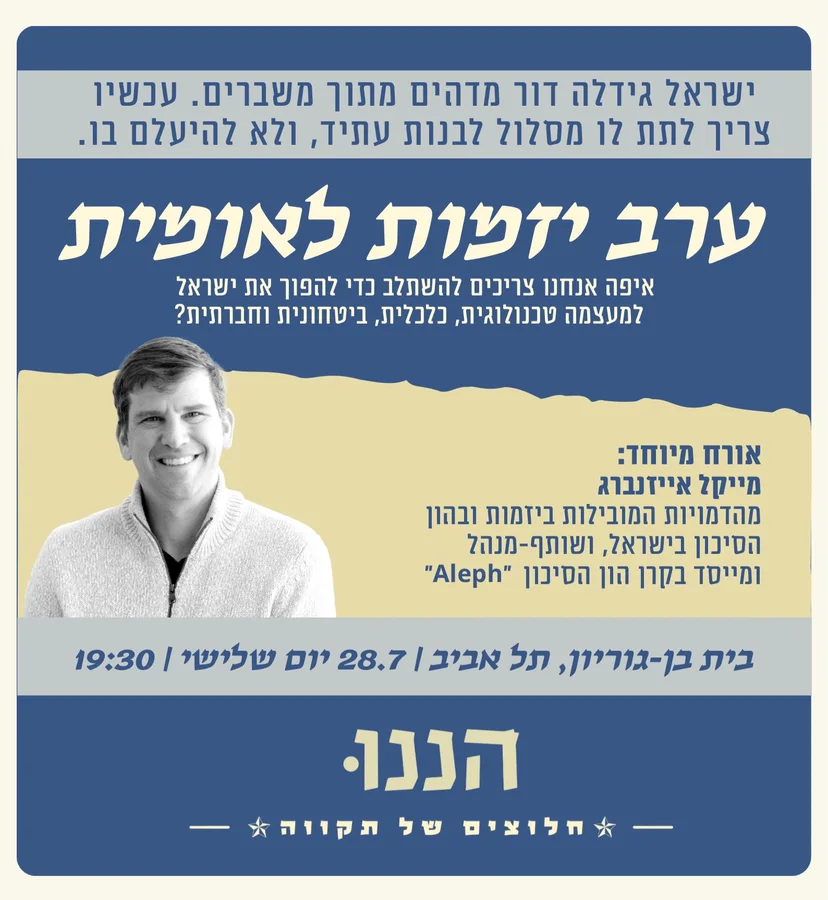
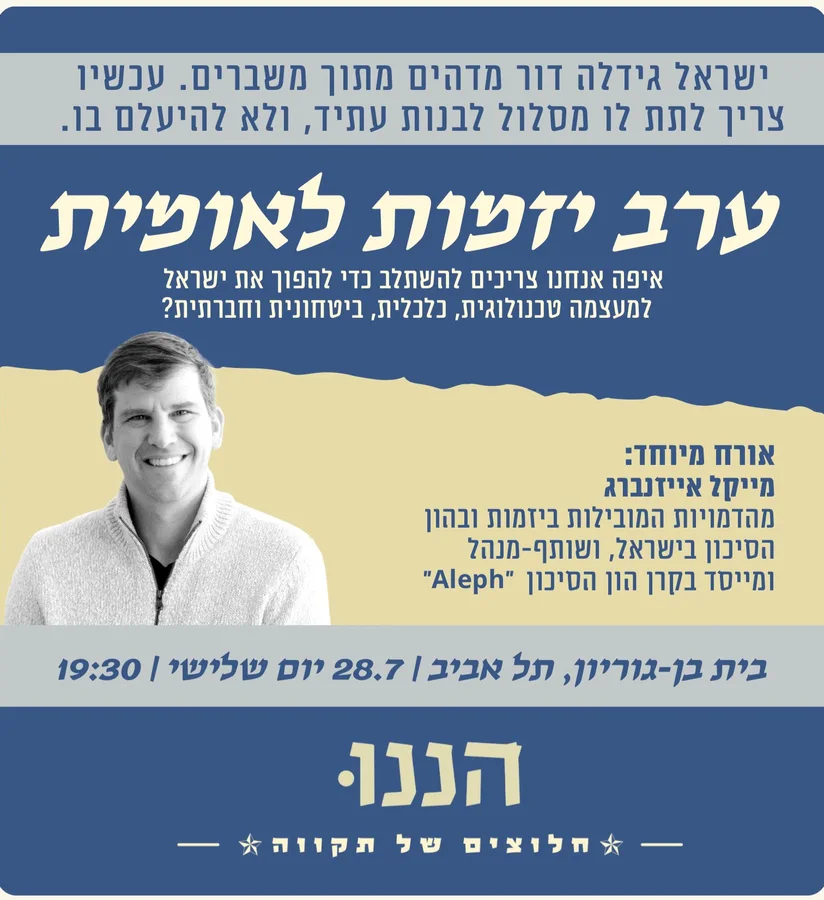
v5.5: one blue (#4257E6) everywhere, shmona headshot north-crop, paper-23 fixed CTA, unified blue track CTAs, section borders removed, equal flyer frames — audit 25/25, single blue verified

diff --git a/index.html b/index.html
@@ -41,8 +41,8 @@
     --paper:#FFFFFF;
     --ink:#F2F0E9;
     --ink-dark:#1A1C2E;
-    --blue:#323E7C;
-    --hl-blue:#4257E6;
+    --blue:#4257E6;
+    --hl-blue:var(--blue);
     --blue-soft:#EDEFF8;
     --line:rgba(242,240,233,.16);
     --line-dark:#EAE8E2;
@@ -267,11 +267,11 @@
   .cta-torn{
     position:fixed; z-index:45; bottom:22px; inset-inline-start:22px;
     display:inline-block;
-    background:url('assets/torn-2.webp') center/100% 100% no-repeat;
+    background:url('assets/torn-cta.webp') center/100% 100% no-repeat;
     color:var(--board); text-decoration:none;
     font-family:'Rubik',sans-serif; font-weight:800;
     font-size:clamp(14px,1.3vw,17px);
-    padding:22px 40px 26px;
+    padding:30px 48px 34px;
     transform:rotate(-1.6deg);
     transition:transform .25s ease, opacity .4s ease, visibility .4s;
     filter:drop-shadow(0 12px 20px rgba(0,0,0,.55));
@@ -345,7 +345,6 @@
   /* ---------- THE LETTER: scroll-inked handwriting ---------- */
   .letter{
     background:transparent;
-    border-top:1px solid var(--line);
     padding:70px 0 60px;
   }
   .letter-track{ position:relative; }
@@ -412,7 +411,7 @@
   /* ---------- TRACKS: how to continue ---------- */
   .tracks{
     position:relative; overflow:clip;
-    padding:110px 0 100px; background:transparent; border-top:1px solid var(--line);
+    padding:110px 0 100px; background:transparent;
     --mx:50%; --my:50%;
   }
   /* faint continuation of the hero grid + cursor-revealed layer */
@@ -523,10 +522,8 @@
   }
   .track-cta .arr{ transition:transform .25s ease; }
   .track-cta:hover .arr{ transform:translateX(-5px); }
-  .track-a .track-cta{ border:1.5px solid var(--blue); color:var(--blue); }
-  .track-a .track-cta:hover{ background:var(--blue-soft); }
-  .track-b .track-cta{ background:var(--blue); color:#fff; }
-  .track-b .track-cta:hover{ transform:translateY(-2px); box-shadow:0 10px 24px rgba(50,62,124,.3); }
+  .track-cta{ background:var(--blue); color:#fff; border:none; }
+  .track-cta:hover{ transform:translateY(-2px); box-shadow:0 10px 24px rgba(66,87,230,.35); }
   .tracks-note{
     margin-top:26px;
     border:1.5px dashed var(--line); border-radius:20px;
@@ -548,7 +545,6 @@
   .event{
     padding:76px 0 64px;
     background:transparent;
-    border-top:1px solid var(--line);
   }
   .event .kicker{
     font-family:'Rubik',sans-serif; font-weight:800; color:#fff;
@@ -651,7 +647,7 @@
     transition:transform .25s ease, box-shadow .25s ease;
   }
   .ev-card:hover{ transform:translateY(-8px); box-shadow:0 44px 80px rgba(0,0,0,.7); }
-  .ev-card img{ width:100%; aspect-ratio:9/10; object-fit:cover; display:block; }
+  .ev-card img{ width:100%; aspect-ratio:9/10; object-fit:cover; display:block; border:10px solid #EFECE0; border-radius:12px; box-sizing:border-box; }
   .ev-tag{
     position:absolute; top:14px; inset-inline-start:14px;
     background:#000; color:#fff; font-weight:800; font-size:13px;
@@ -678,7 +674,7 @@
   }
 
   /* ---------- VENTURES: already working ---------- */
-  .ventures{ background:#000; color:#fff; padding:110px 0 100px; border-top:1px solid var(--line); overflow:clip; }
+  .ventures{ background:#000; color:#fff; padding:110px 0 100px; overflow:clip; }
   .ventures .kicker{
     font-family:'Rubik',sans-serif; font-weight:800; color:#fff;
     font-size:14px; letter-spacing:4px; margin:0 0 14px; text-align:center;
@@ -698,10 +694,10 @@
   }
   .vcard img{ width:100%; height:300px; object-fit:cover; object-position:50% 12%; pointer-events:none; display:block; }
   .vbody{ padding:20px 22px 24px; }
-  .vbody .role{ font-size:11.5px; font-weight:800; letter-spacing:.12em; color:#AFBCFF; margin-bottom:6px; }
+  .vbody .role{ font-size:11.5px; font-weight:800; letter-spacing:.12em; color:var(--blue); margin-bottom:6px; }
   .vbody b{ display:block; font-size:20px; font-family:'Rubik',sans-serif; font-weight:800; margin-bottom:7px; color:#fff; }
   .vbody p{ margin:0; font-size:13.5px; line-height:1.55; color:rgba(255,255,255,.72); }
-  .vcard.you{ background:linear-gradient(160deg,#3B488F,var(--blue)); }
+  .vcard.you{ background:var(--blue); }
   .vcard.vtxt{ background:#16181F; }
   .vcard .vbig-sm{
     font-family:var(--font-display),'Rubik',sans-serif; font-weight:400;
@@ -709,7 +705,7 @@
     color:#fff; text-align:center;
   }
   .vlink{
-    display:inline-block; margin-top:10px; color:#AFBCFF;
+    display:inline-block; margin-top:10px; color:var(--blue);
     font-weight:800; font-size:14px;
     text-decoration:underline; text-underline-offset:4px;
   }
@@ -733,7 +729,7 @@
 
   /* ---------- BACKERS marquee ---------- */
   .backers{
-    background:transparent; border-top:1px solid var(--line);
+    background:transparent;
     padding:64px 0 58px; text-align:center; overflow:hidden;
   }
   .backers .overline{
@@ -809,7 +805,7 @@
     padding:17px 18px; cursor:pointer; margin-top:10px;
     transition:transform .15s ease, background .2s ease;
   }
-  .cta-btn:hover{ background:#3D4A94; transform:translateY(-1px); }
+  .cta-btn:hover{ background:#5468EE; transform:translateY(-1px); }
   .cta-btn:active{ transform:scale(.98); }
   .success-msg{
     display:none; text-align:center; font-weight:800; font-size:18px;
@@ -2013,7 +2009,6 @@
     ['--blue','כחול מותג'],
     ['--coral','אקסנט קורל'],
     ['--hl','הדגשות וחצים'],
-    ['--hl-blue','כחול הדגשות'],
     ['--board','כהה (נייר/פוטר)'],
     ['--flood-dark','הצפת הירו כהה'],
     ['--flood-olive','הצפת הירו ירוקה']
@@ -2023,8 +2018,8 @@
     ['--font-mid','פונט קישור', ['Frank Ruhl Libre','Dana Yad','Amatic SC','Bellefair','Karantina']]
   ];
   var THEME_PRESETS = {
-    'מקורי (כהה)': { '--bg':'#000000','--ink':'#F2F0E9','--dim':'#9A9C93','--blue':'#323E7C','--coral':'#D96A50','--board':'#23241F','--hl-blue':'#4257E6' },
-    'בהיר (ישן)':  { '--bg':'#F4F4EE','--ink':'#1A1C2E','--dim':'#71738A','--blue':'#323E7C','--coral':'#D96A50','--board':'#23241F','--hl-blue':'#3D52E0' },
+    'מקורי (כהה)': { '--bg':'#000000','--ink':'#F2F0E9','--dim':'#9A9C93','--blue':'#4257E6','--coral':'#D96A50','--board':'#23241F' },
+    'בהיר (ישן)':  { '--bg':'#F4F4EE','--ink':'#1A1C2E','--dim':'#71738A','--blue':'#323E7C','--coral':'#D96A50','--board':'#23241F' },
     'שחור-לבן':{ '--bg':'#F5F5F3','--ink':'#161616','--dim':'#6E6E6E','--blue':'#1F1F1F','--coral':'#C4442A','--board':'#111111' },
     'זית':     { '--bg':'#F1F0E4','--ink':'#232B1E','--dim':'#6E7562','--blue':'#3E5233','--coral':'#C97B3D','--board':'#1C2117' },
     'לילה':    { '--bg':'#191A22','--ink':'#EDEAF7','--dim':'#9CA0BC','--blue':'#8E9BE8','--coral':'#E8836B','--board':'#0E0F14' }
